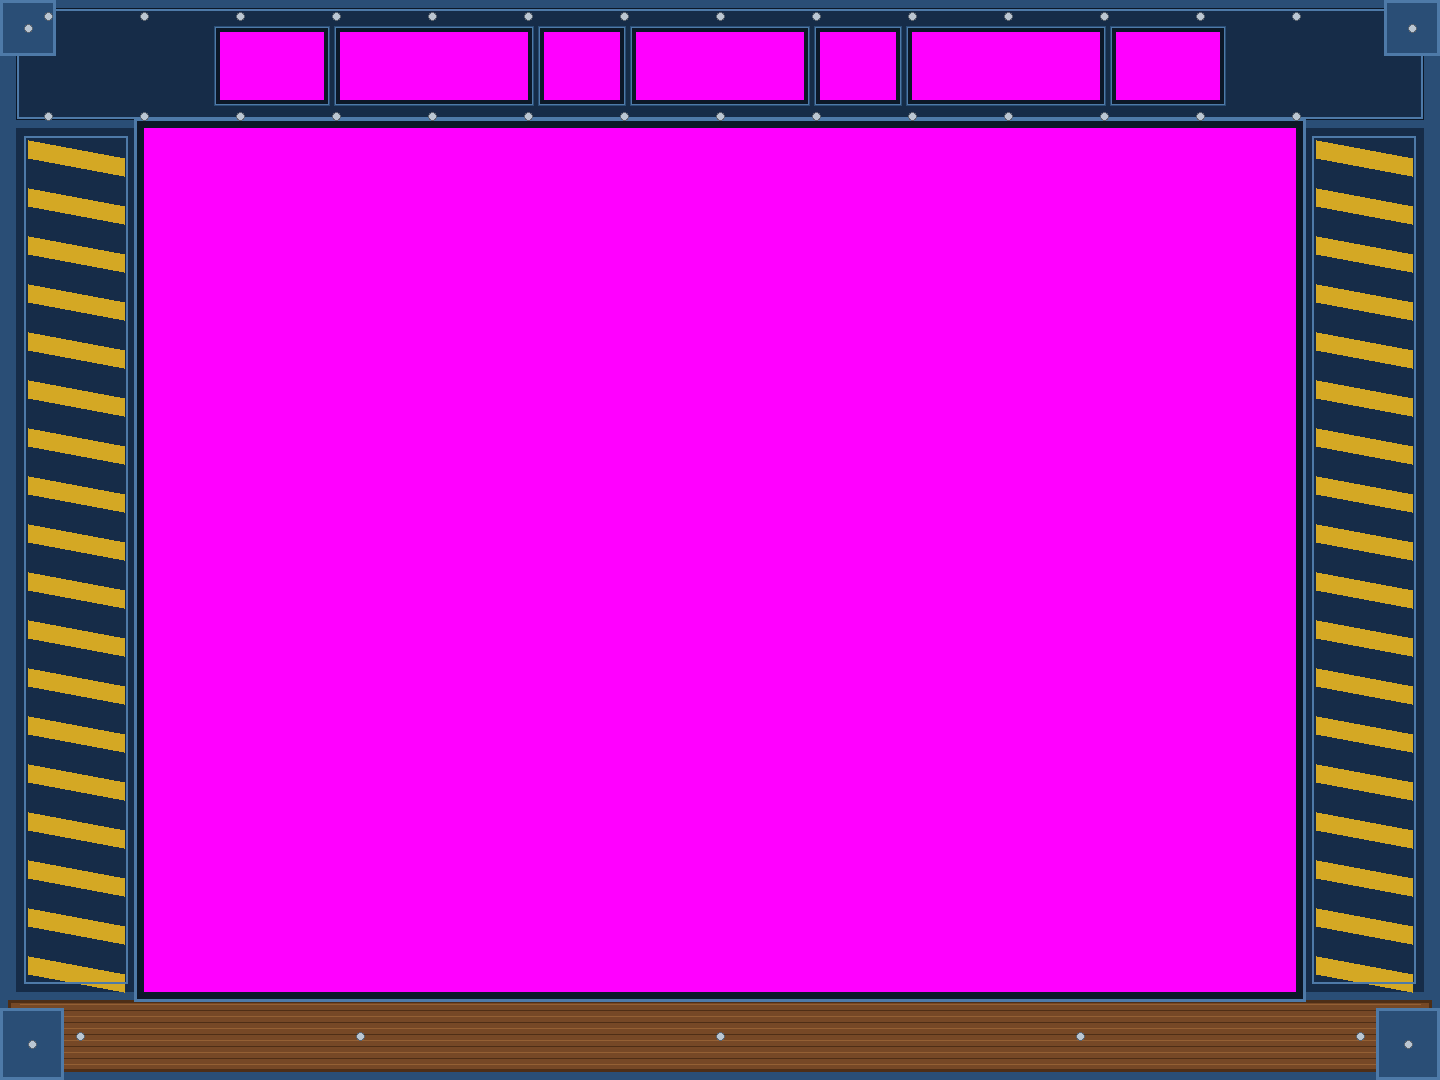
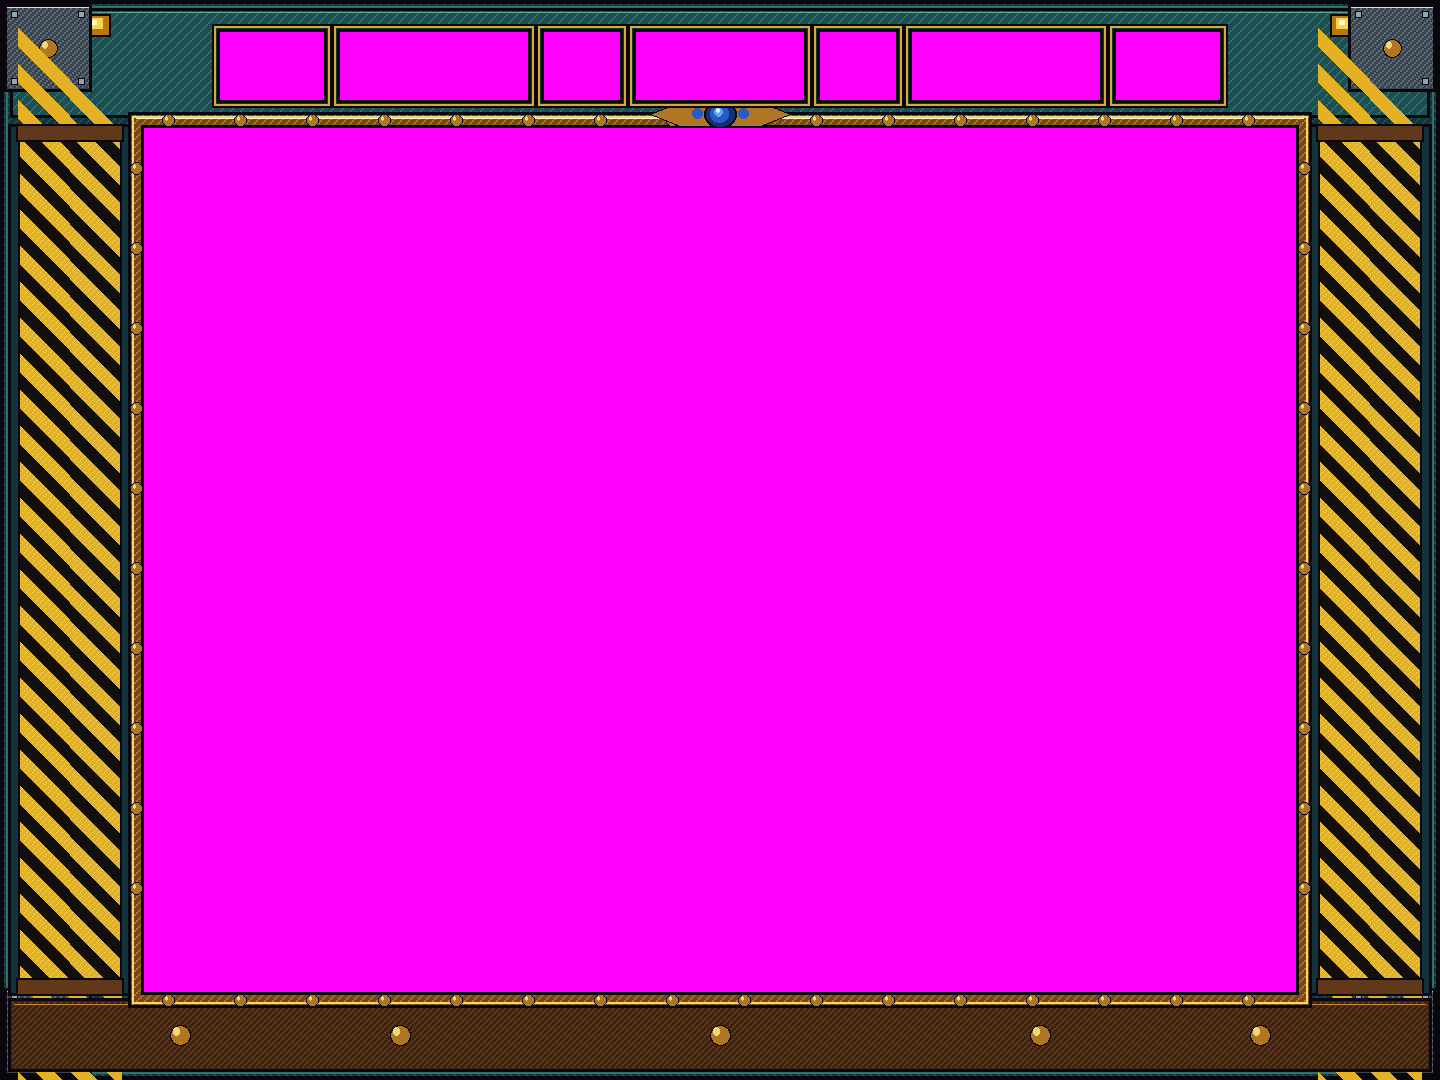
Redraw the cabinet at native 1440×1080 in sprite pixel art.
Lock the playbook so chrome is authored on the well table, not scaled up from a small drawing.

Changed region(s): [[0.0, 0.0, 1.0, 1.0]]

diff --git a/playbook.md b/playbook.md
@@ -299,7 +299,7 @@ Top-down 4:3 empty neon grid court, deep blue PCB city map, green center beam, p
 
 The cabinet **is 4:3** (canonical **1440×1080**). It is the machine, not the court.
 
-**Layout first.** Spec every inset in pixels on the 1440×1080 canvas. Author the sprite **to that table** (steel rims around those rects, magenta interiors). Code uses the **same constants**. Do not generate a freeform cabinet and then reverse-engineer wells.
+**Layout first.** Spec every inset in pixels on the 1440×1080 canvas. Author the sprite **on that 1440×1080 canvas, to that table** (steel rims around those rects, magenta interiors). Code uses the **same constants**. Do not generate a freeform cabinet and then reverse-engineer wells. Do **not** draw a small cabinet and scale it up. Match the in-game fighter sprites: 1994 Neo Geo / CPS1 pixels, hard outlines, dither, limited palette.
 
 ### Inset table (exclusive right / bottom)
 
